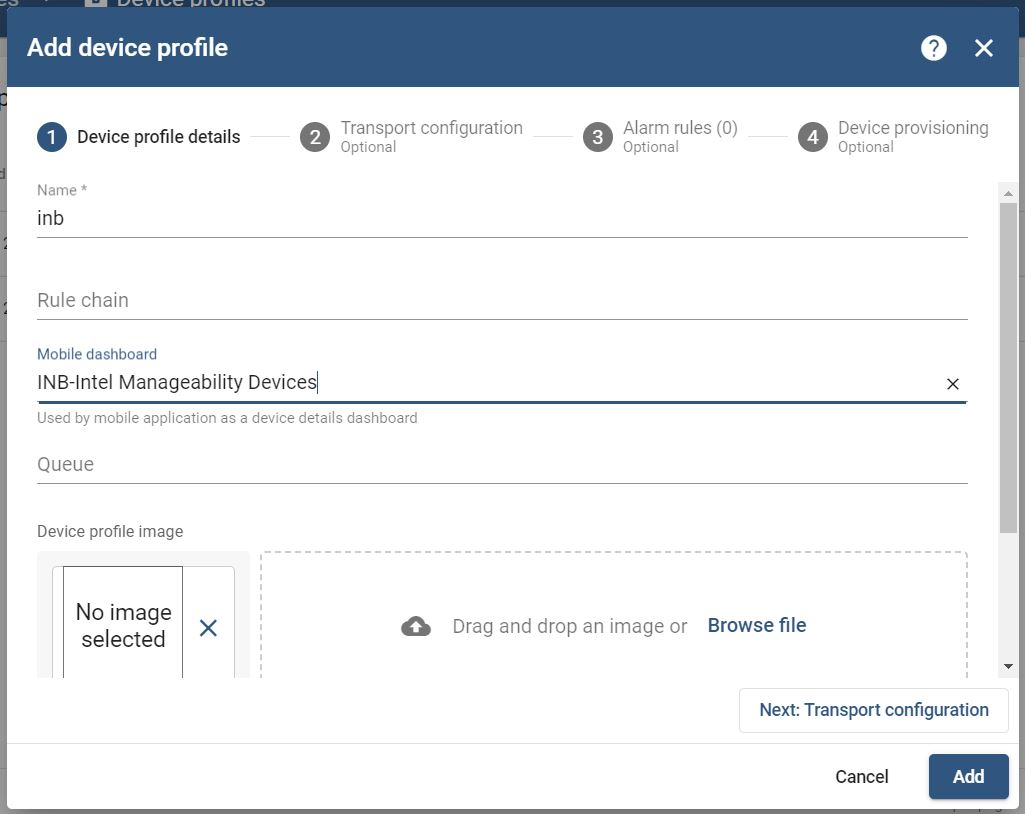
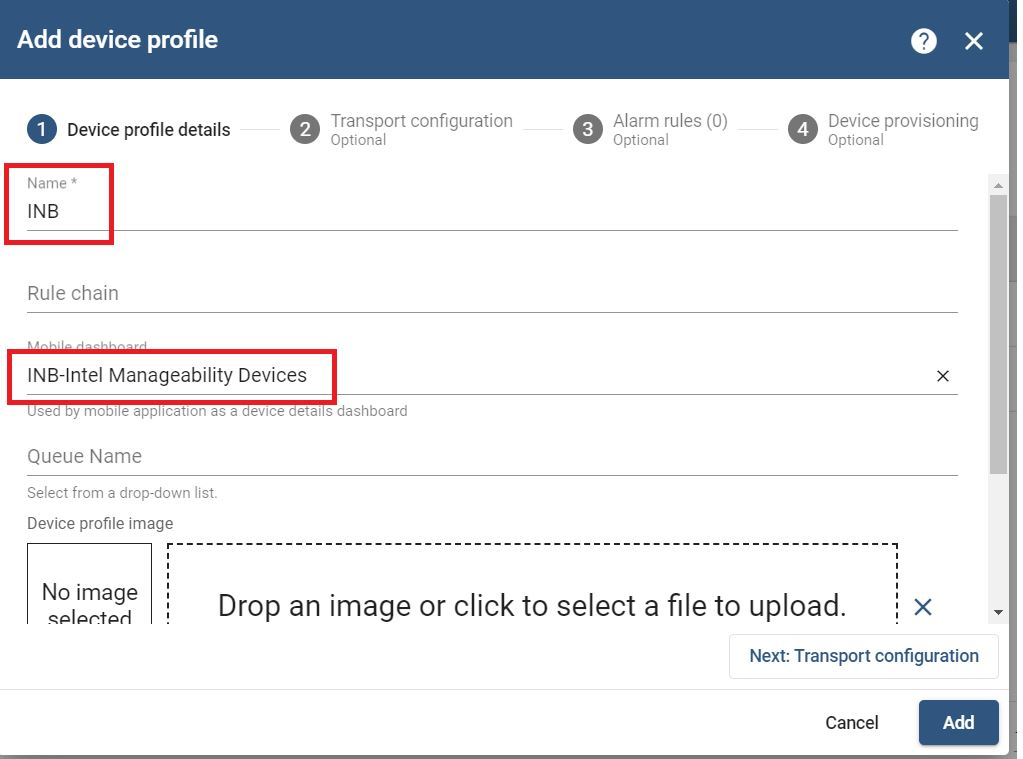
Update

diff --git a/README.md b/README.md
@@ -7,17 +7,24 @@ There are two helm charts in the helm folder.
 
 # Installation
 1. Ensure that K8s cluster and Helm are installed on the system.
-2. Install Thingsboard with Helm command.
+2. Create Thingsboard storage. 
+   ```
+   sudo mkdir -p /mnt/data/tbdata/
+   sudo mkdir -p /mnt/data/tblogs/
+   sudo chmod o+rw /mnt/data
+   sudo chmod o+rw /mnt/data/tb*
+   ```
+3. Install Thingsboard with Helm command.
    ```
    sudo helm install tb helm/thingsboard
    ```
-3. Check the cluster IP of Thingsboard. Record down the cluster IP.
+4. Check the cluster IP of Thingsboard. Record down the cluster IP.
 
    `sudo kubectl get svc | grep tb`
 
    <img src="images/tb_clusterip.JPG" />
 
-4. Login to Thingsboard with the cluster IP and port 9090. 
+5. Login to Thingsboard with the cluster IP and port 9090. 
 The username and password as below:
    ```
    Username: tenant@thingsboard.org
@@ -25,29 +32,33 @@ The username and password as below:
    ```
    <img src="images/tb_login.JPG" />
 
-5. Download [intel_manageability_widgets_version_3.3.json](https://github.com/intel/intel-inb-manageability/blob/develop/inbm/cloudadapter-agent/fpm-template/usr/share/cloudadapter-agent/thingsboard/intel_manageability_widgets_version_3.3.json) and [intel_manageability_devices_version_3.3.json](https://github.com/intel/intel-inb-manageability/blob/develop/inbm/cloudadapter-agent/fpm-template/usr/share/cloudadapter-agent/thingsboard/intel_manageability_devices_version_3.3.json).
-6. Import widgets bundle into Thingsboard.
+6. Download [intel_manageability_widgets_version_3.3.json](https://github.com/intel/intel-inb-manageability/blob/develop/inbm/cloudadapter-agent/fpm-template/usr/share/cloudadapter-agent/thingsboard/intel_manageability_widgets_version_3.3.json) and [intel_manageability_devices_version_3.3.json](https://github.com/intel/intel-inb-manageability/blob/develop/inbm/cloudadapter-agent/fpm-template/usr/share/cloudadapter-agent/thingsboard/intel_manageability_devices_version_3.3.json).
+7. Import widgets bundle into Thingsboard.
    <img src="images/tb_import_widgets.JPG" />
-7. Import dashboard into Thingsboard.
+8. Import dashboard into Thingsboard.
    <img src="images/tb_import_dashboard.JPG" />
-8. Go to Profiles and create device profile. Select "**INB-intel Manageability Devices**" as mobile dasboard.
-   <img src="images/tb_create_device_profile.JPG" />
-   <img src="images/tb_create_device_profile2.JPG" />
+9. Go to Profiles and create device profile. Select "**INB-intel Manageability Devices**" as mobile dasboard.
 
-9. Go to Devices and create new device. Enter the name of device and select the device profile added just now. 
-   <img src="images/tb_create_device.JPG" />
-   <img src="images/tb_create_device2.JPG" />
+   NOTE: The name of device profile must be INB in order to match with entity aliases.
+     <img src="images/tb_create_device_profile.JPG" />
+     <img src="images/tb_create_device_profile2.JPG" />
 
-10. Click the newly added device and record down the access token.
+10. Go to Devices and create new device. Enter the name of device and select the device profile added just now. 
+    <img src="images/tb_create_device.JPG" />
+    <img src="images/tb_create_device2.JPG" />
+
+11. Click the newly added device and record down the access token.
 
    <img src="images/tb_copy_access_token.JPG" />
 
-11. Go to inbm [configmap](helm\inbm\templates\configmap.yaml). Under mqtt configuration, update the username as your **access token** and the hostname as your Thingsboard's **cluster IP**.
+12. Go to inbm [configmap](helm\inbm\templates\configmap.yaml). Under mqtt configuration, update the username as your **access token** and the hostname as your Thingsboard's **cluster IP**.
 
    <img src="images/inbm_update_configmap.JPG" />
 
-12. Install inbm with Helm command.
+13. Install inbm with Helm command.
     ```
     sudo helm install tb helm/inbm
     ```
-13. Go to Dashboard > INB-Intel Manageability Devices and check the dashboard.  
+14. Go to Dashboard > INB-Intel Manageability Devices > Open dashboard. Check the dashboard.
+    <img src="images/tb_dashboard2.JPG" />
+    <img src="images/tb_dashboard.JPG" />
